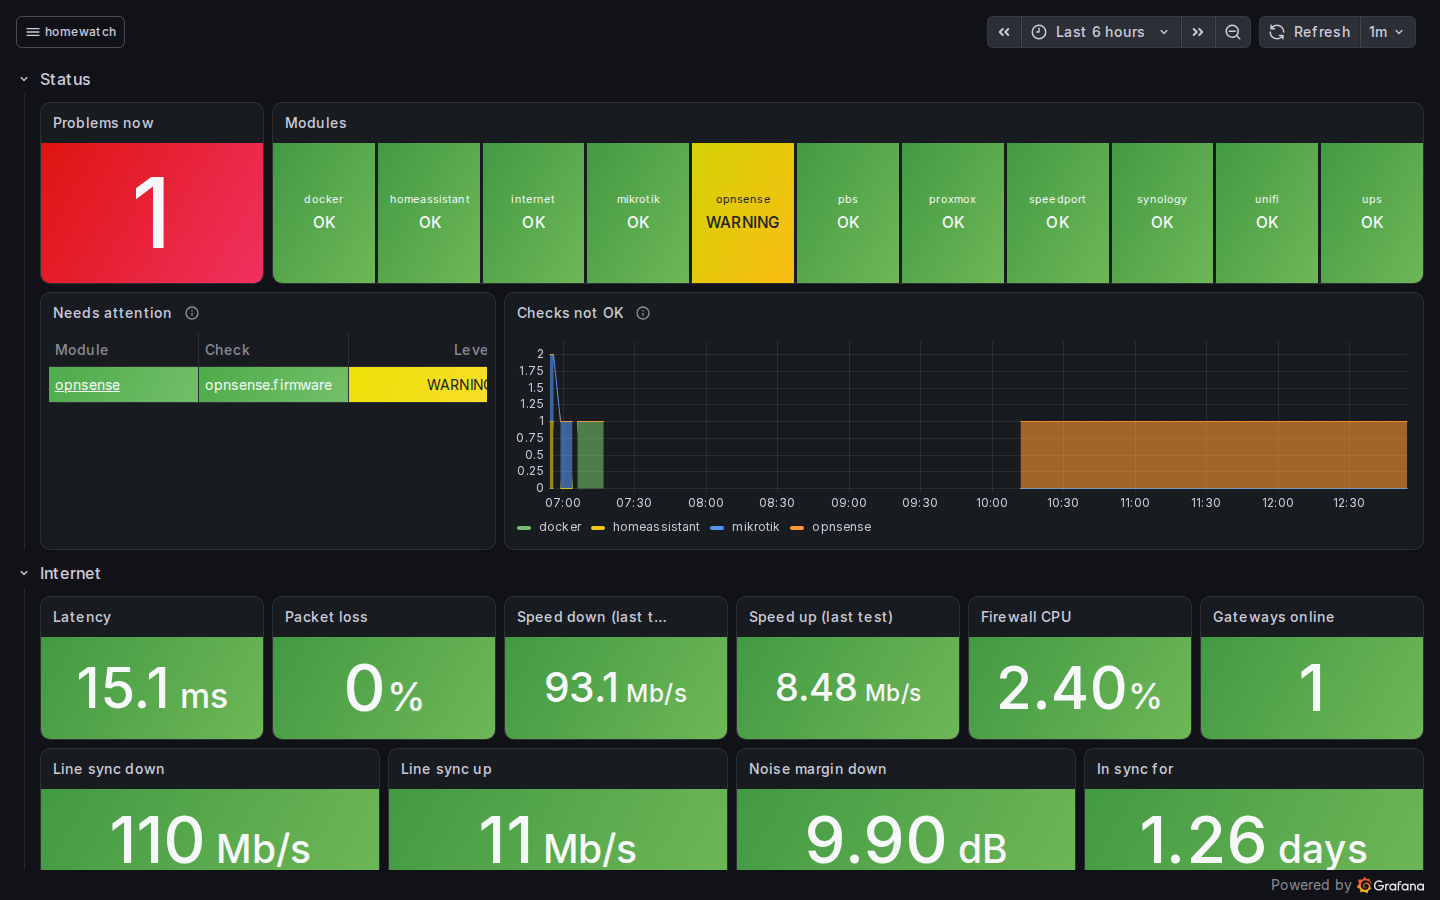
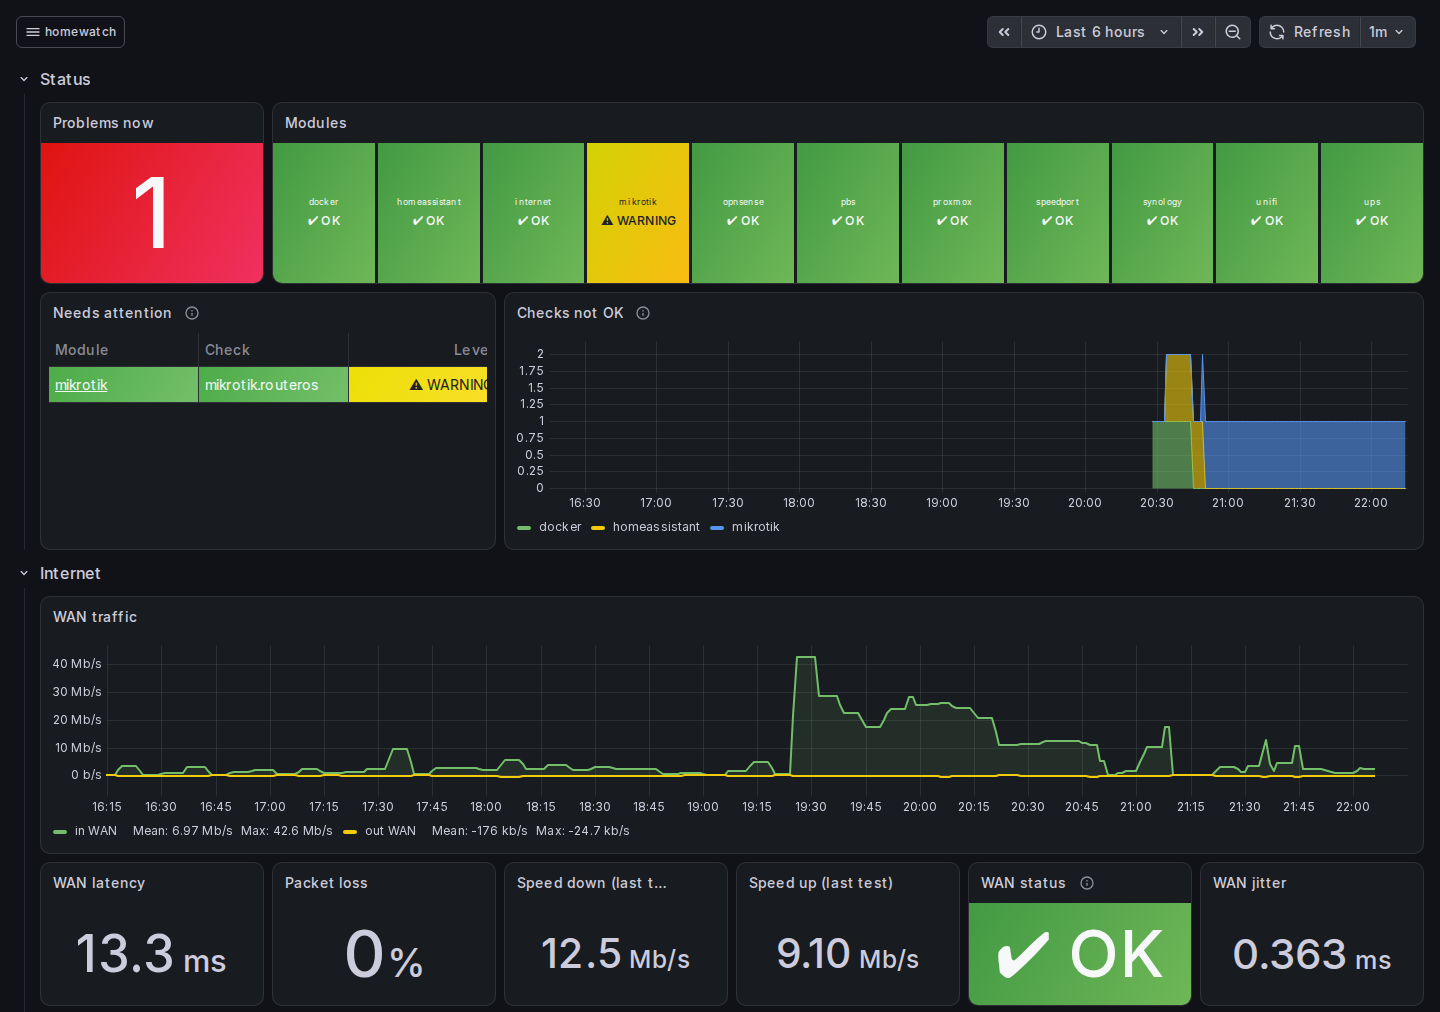
README: MikroTik update check and configuration copies, PBS deduplication, outbound connections, new Overview screenshot

diff --git a/README.md b/README.md
@@ -19,7 +19,7 @@ with a year of history from every device, port and guest, and from the Home Assi
 ![homeWatch's Status page: the overall status, today's key numbers and one tile per module with its 24-hour line](docs/screenshots/status.png)
 
 <p>
-  <img src="docs/screenshots/grafana-overview.png" width="49%" alt="Grafana Overview: problems now, a status tile per module, checks needing attention, internet and modem line">
+  <img src="docs/screenshots/grafana-overview.png" width="49%" alt="Grafana Overview: problems now, a status tile per module, checks needing attention, WAN traffic and the internet line's numbers">
   <img src="docs/screenshots/grafana-internet.png" width="49%" alt="Grafana Internet dashboard: latency, jitter, packet loss and DNS lookup time">
   <img src="docs/screenshots/grafana-synology.png" width="49%" alt="Grafana Synology dashboard: temperature, CPU, memory, volumes, disk health and temperatures">
   <img src="docs/screenshots/grafana-ups.png" width="49%" alt="Grafana UPS dashboard: status, battery, runtime, load, power draw and voltages">
@@ -34,9 +34,9 @@ with a year of history from every device, port and guest, and from the Home Assi
 - [OPNsense](#opnsense-module-optional): gateways, CPU, services, HAProxy servers, certificates and firmware updates
 - [Home Assistant](#home-assistant-module-optional): core, updates, backups, host disk / memory / CPU, plus the entities you choose (unavailable, alarm, safety, tamper, battery, add-ons, your own rules)
 - [Synology NAS](#synology-nas-module-optional): system, CPU and memory, disks, pools and volumes and DSM updates over the DSM Web API
-- [MikroTik](#mikrotik-module-optional): ports up, port errors, CPU and memory, reboots and RouterBOOT over the REST API
+- [MikroTik](#mikrotik-module-optional): ports up, port errors, CPU and memory, reboots and RouterBOOT over the REST API, plus optional RouterOS update checks and daily configuration copies
 - [UniFi](#unifi-module-optional): devices online, CPU, Wi-Fi, restarts and firmware updates, as a view-only user
-- [Proxmox Backup Server](#proxmox-backup-server-module-optional): datastores, recent backups, verify/prune/garbage-collection jobs and updates
+- [Proxmox Backup Server](#proxmox-backup-server-module-optional): datastores and their deduplication factor, recent backups, verify/prune/garbage-collection jobs and updates
 - [UPS](#ups-module-optional): mains power, battery charge, runtime, load and UPS health from a NUT server
 - [Docker hosts](#docker-hosts-module-optional): containers running, restarts, health checks and removed containers, through a read-only socket proxy
 - [Alerts and notifications](#alerts-and-notifications): Telegram, ntfy, email, webhook and a healthchecks.io heartbeat
@@ -292,6 +292,26 @@ user on every device). The device's `www` service must allow the homeWatch host.
 | Port errors in the last hour | ≥ 10 | ≥ 1000 |
 | Uptime | rebooted in the last 60 min | |
 | RouterBOOT | older than the installed RouterOS | |
+| RouterOS updates (option) | a newer RouterOS exists for the device's update channel | |
+| Configuration copies (option) | no good copy for 2 days | |
+| Configuration changed (option, off by default) | for 24 h after a device's configuration changed | |
+
+CPU, memory and temperature list every device, worst first (`core 46 % | lan 44 %`).
+
+Two options on the module page, both off until you tick them:
+
+- **Check daily for RouterOS updates:** once a day homeWatch reads the newest RouterOS of each
+  device's update channel (stable, long-term…) from `upgrade.mikrotik.com`. It needs internet access
+  from the homeWatch host. Nothing is downloaded to, or changed on, the devices; update them yourself
+  (System → Packages → Check For Updates), then upgrade RouterBOOT (System → RouterBOARD → Upgrade)
+  and reboot.
+- **Keep a daily copy of the configuration:** once a day homeWatch saves each device's `/export`,
+  read with the same read-only user, and keeps a new copy only when something changed (60 per
+  device). The module page lists the copies, shows **What changed** between two of them and offers
+  each as a `.rsc` download. The `read` group can't see passwords, keys and secrets, so the copies
+  leave them out. To restore: reset the device without its default configuration, `/import` the file,
+  then enter the passwords, Wi-Fi keys and secrets again. The copies live in homeWatch's data volume,
+  so they are part of its [backups](#back-up).
 
 ### UniFi module (optional)
 
@@ -317,6 +337,10 @@ shows the commands to create it).
 | Backups (the groups you choose) | newest snapshot > 26 h old | > 50 h old, or no snapshots |
 | Verify, prune, garbage collection, sync | latest run had warnings | latest run failed (last 8 days) |
 | Updates | package updates available | |
+
+The Datastores table and the Grafana dashboard also show each datastore's **deduplication factor**,
+as the PBS web interface does: the size of all backups over the space their chunks take on disk,
+from the last garbage collection.
 
 ### UPS module (optional)
 
@@ -462,7 +486,7 @@ Database changes apply on start.
 ## Back up
 
 Everything homeWatch knows lives in two Docker volumes:
-- `homewatch_hw-data`: settings, users, history, encrypted tokens (and the nightly exports)
+- `homewatch_hw-data`: settings, users, history, encrypted tokens, MikroTik configuration copies (and the nightly exports)
 - `homewatch_vm-data`: metrics
 
 With Grafana, also `homewatch_grafana-data` (your own dashboards; the built-in ones are recreated).
@@ -511,6 +535,10 @@ allow redistribution. **System → Health** shows the installed version.
 ## Security notes
 
 - **Exposure:** don't forward homeWatch to the internet. Use it on your LAN or over Tailscale.
+- **Outbound:** besides the devices you add, homeWatch reaches only the internet servers you set it to
+  use: the public servers the Internet module pings and asks for DNS lookups, the speed-test service,
+  your notification channels, GitHub for the daily release check (which you can turn off) and, if you
+  tick it, `upgrade.mikrotik.com` once a day for the newest RouterOS version.
 - **Network:** only Caddy publishes ports (80 redirects to 443). VictoriaMetrics, Telegraf, Grafana and
   the controller stay on internal Docker networks.
 - **Grafana:** reached only through Caddy, which asks homeWatch who you are first. Grafana trusts the
